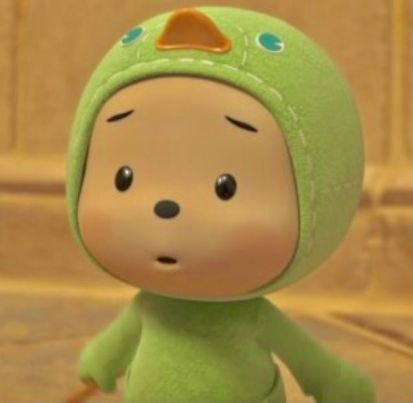
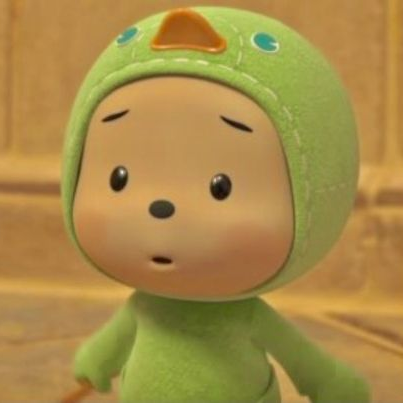
사진비율수정

diff --git a/app/project/page.tsx b/app/project/page.tsx
@@ -31,15 +31,6 @@ export default function ProjectPage() {
           height={400}
         />
       </div>
-      <p className="text-center text-base sm:text-lg md:text-xl lg:text-2xl p-4 leading-relaxed max-w-xl whitespace-normal font-serif text-gray-600 mb-8">
-        <span className="block font-mono font-bold sm:text-2xl text-gray-900 mb-2">
-          MOVIE NOTE란?
-        </span>
-        영화에 대해 이야기하고 정보를 공유하는 공간입니다. 각자의 독창적인 영화
-        감상을 기록할 수 있는 특별한 노트를 통해 여러분의 생각과 느낌을 나눌 수
-        있습니다. 영화를 사랑하는 모든 분들이 참여할 수 있으며, 다양한 장르와
-        테마에 대해 자유롭게 소통하고 서로의 의견을 존중하는 기회를 제공합니다.
-      </p>
 
       <Link href="/object">
         <button className="mt-4 bg-green-800 text-white py-3 px-8 rounded-full hover:bg-gradient-to-l hover:bg-blue-800 transition duration-300 ease-in-out shadow-md">

diff --git a/app/page.tsx b/app/page.tsx
@@ -42,15 +42,11 @@ export default function Home() {
       </div>
 
       <hr className="my-8 border-gray-300" />
-      <h1 className="text-center text-4xl font-bold mb-8">고양hub</h1>
 
-      <h1 className="text-center text-2xl mb-6">팀원소개</h1>
+      <h1 className="text-center text-2xl mb-6 font-bold">팀원소개</h1>
       <div className="grid grid-cols-1 sm:grid-cols-2 lg:grid-cols-4 gap-8">
         {teamMembers.map((member, index) => (
-          <div
-            key={index}
-            className="bg-neutral-300 p-6 rounded-lg text-center"
-          >
+          <div key={index} className="bg-[#b5c8b8] p-6 rounded-lg text-center">
             <Image
               src={member.image}
               alt={member.name}

diff --git a/components/TeamDetail.tsx b/components/TeamDetail.tsx
@@ -22,7 +22,7 @@ const teamMembers = [
   },
   {
     name: '정은미',
-    description: '팀원 소개페이지 제작',
+    description: '팀 소개페이지 제작',
     image: '/images/e.jpg',
     gitlink: 'https://github.com/Eunmi04',
     portfoliolink: '',
